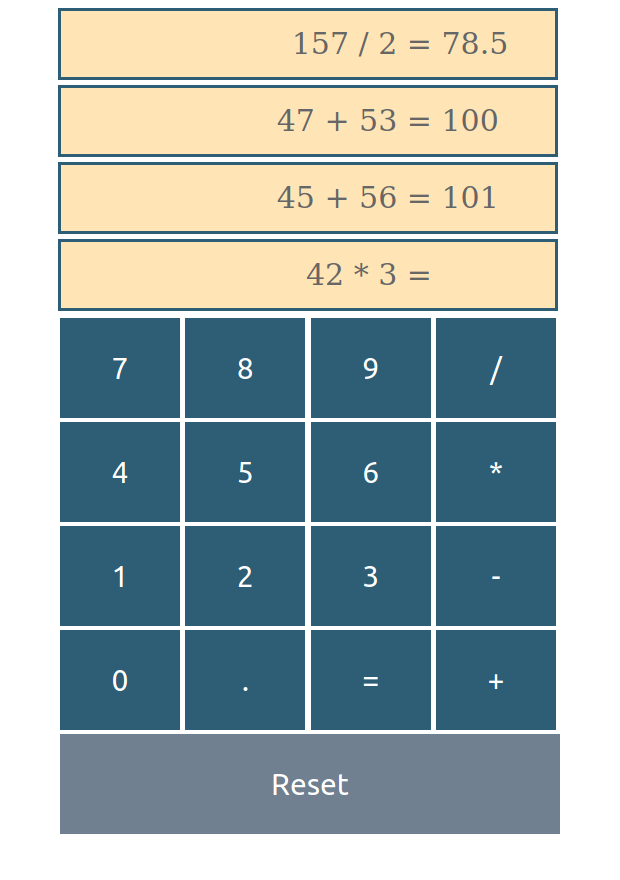
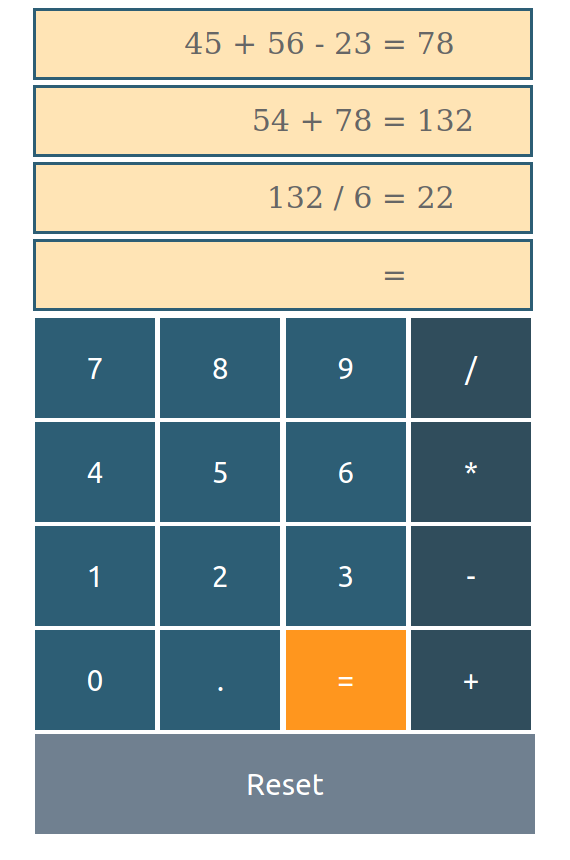
new preview

diff --git a/app.css b/app.css
@@ -9,6 +9,15 @@ body {
     display: flex;
     justify-content: space-between;
 }
+.row button:last-child {
+    background-color: rgb(48, 77, 92);
+}
+.row button:last-child:hover {
+    background-color: rgb(63, 111, 136);
+}
+button.egal {
+    background-color: rgb(255, 150, 30);
+}
 .container {
     width: 500px;
     margin: 0 auto;

diff --git a/app.js b/app.js
@@ -113,3 +113,10 @@ class App extends React.Component {
     }
 
 ReactDOM.render(<App />, document.getElementById('root'));
+
+let boutons = document.querySelectorAll('button');
+boutons.forEach(bouton => {
+    if (bouton.innerHTML == "=") {
+        bouton.classList.add("egal");
+    }
+});
